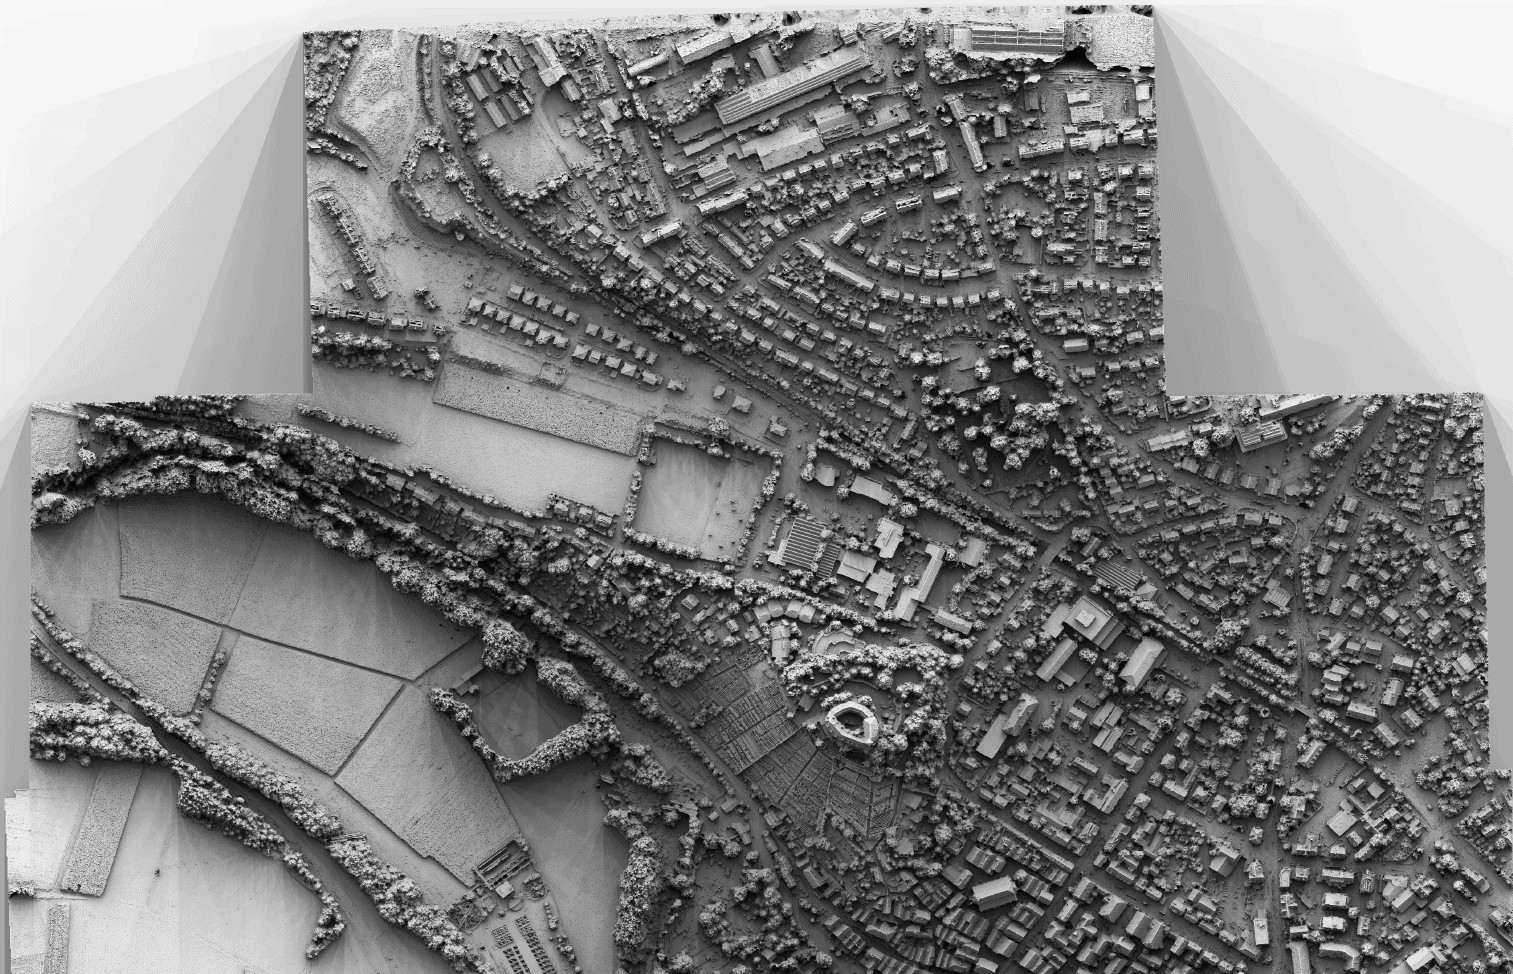
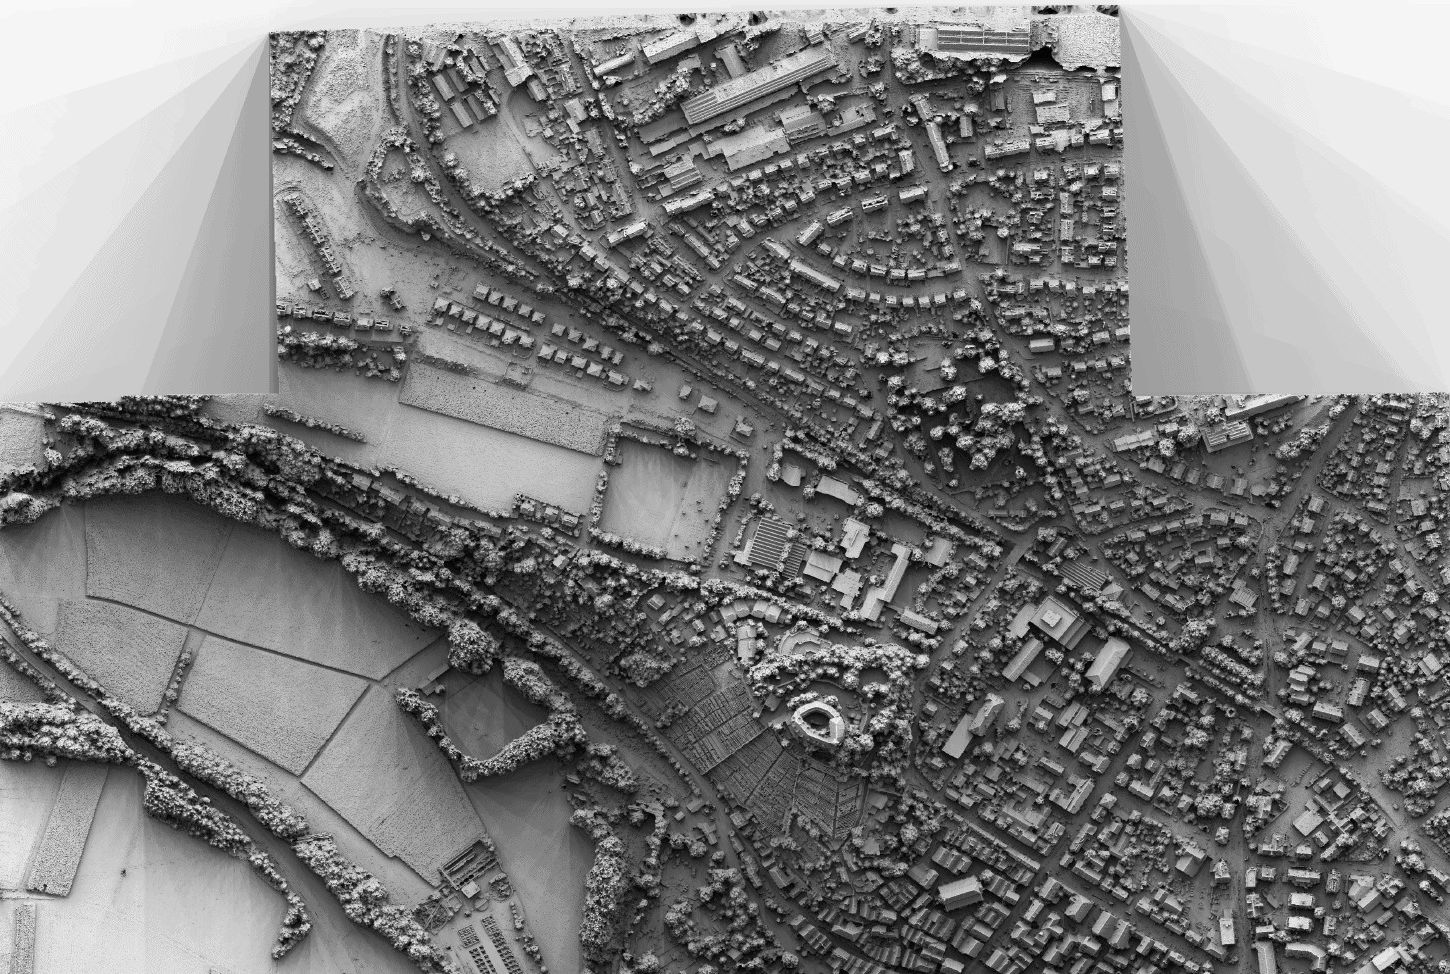
Doc

diff --git a/Documentation/Generalites/Intro.tex b/Documentation/Generalites/Intro.tex
@@ -26,7 +26,7 @@ MicMac is a tool for image matching. I began to write it in $2005$, while workin
 French National Geographic Institute (IGN), as
 a tool integrating several recent results of the scientific community.
 It is a general purpose tool, probably in many (if not all) specific
-contexts, one will be able to find a more acurate tool. However, one
+contexts, one will be able to find a more accurate tool. However, one
 of its expected advantages is its generality. It has been used
 in a lot of different contexts, for example:
 
@@ -65,7 +65,7 @@ MicMac:
 
 Since $2008$, several tools were added to solve specific requirements: tools for ortho-photo, tools
 for demosaicing\dots \  Since $2007$,  MicMac is an open source software, under the CeCILL-B license
-(an adaptation to the French law of the L-GPL license); as far as I unterstand law (not very much) all
+(an adaptation to the French law of the L-GPL license); as far as I understand law (not very much) all
 the other tools described in this document are extensions and evolutions of MicMac and obey to
 the same license.
 
@@ -75,8 +75,7 @@ Different people have helped me in writting these tools:
    \item Gregoire Maillet for supporting satellite orientation models (grid of rpc),
    \item Arnaud Le Bris for adaptation of \SiftPP supporting large images,
    \item Didier Boldo for the first Windows adaptation,
-   \item Isabelle Clery, Aymeric Godet and Livio de Luca for  developping two different user friendly interfaces and
-         also making many tests,
+   \item Isabelle Clery, Aymeric Godet and Livio de Luca for  developing two different user friendly interfaces and also making many tests,
    \item Christophe Meynard for solving some tricky Linux problems,
    \item Christian Thom for the first idea of multi-correlation,
    \item Jean-Micha\"el Muller for improvements about installation,
@@ -135,7 +134,7 @@ low level tools, and the installation, computation and running of these
 tools require some basic background in practical computer science.
 
 See now the section~\ref{MERCURIAL} for the new website since $2012$, install mercurial and follow the instruction.
-Several links that may be usefull :
+Several links that may be useful :
 
 \begin{itemize}
    \item http://logiciels.ign.fr/?Telechargement,20   for the sources
@@ -162,7 +161,7 @@ pwd = scAEf9MR
 
 \section{Librairies, Programs and Dependencies}
 
-These softwares have few dependencies to others librairies or programs. Basically,
+These softwares have few dependencies to others libraries or programs. Basically,
 if you use tiff or raw files as input, and if you do not use any of the graphical
 tools provided \footnote{for handling mask, visualize tie points ...} ,
 there might not be any dependency.
@@ -182,10 +181,10 @@ to have installed the command {\tt convert}, this command is a part of the excel
 
 
 The {\tt dcraw} source code I use to handle xif files info is sufficient in most cases.
-However, when it fails, I try to use the {\tt exiv2} tool. I also recommand that
+However, when it fails, I try to use the {\tt exiv2} tool. I also recommend that
 you install this excellent and free package.
 
-I also recommand that you install the excellent package {\tt exiftool}, it is a free
+I also recommend that you install the excellent package {\tt exiftool}, it is a free
 open source package and has the ability to read many {\tt xif} information (including
 GPS tags that will be soon usable in {\tt Apero}).
 
@@ -201,10 +200,10 @@ There are roughly three kinds of interfaces for softwares:
 \begin{itemize}
    \item user friendly graphical interface, with intuitive menu and window etc.
          Its advantage is that it may be usable by all final users,
-         the drawback of this solution being the cost for the developper;
+         the drawback of this solution being the cost for the developer;
 
    \item API or application programming interface. Using this level of interface requires you
-         to use one of the programming language the API is functionning with. One of
+         to use one of the programming language the API is functioning with. One of
          the drawbacks of these API is that they require a lot of documentation;
 
    \item a set of programs that you can call on a command line, with parameters being
@@ -212,11 +211,9 @@ There are roughly three kinds of interfaces for softwares:
 
 \end{itemize}
 
-The tools described here use the third kind of interface. This seemed to be the
+The tools described here use mainly the third kind of interface. This seemed to be the
 optimal solution as these tools have been primarily developed for my own usage and
-usage of colleagues from the same building.  Of course this choice is certainly
-not optimal for end users and one objective of this documentation is to  allow
-the development of an user friendly interface by people who would volunteer.
+usage of colleagues from the same building. Since this is not optimal for end users, some user friendly graphical interfaces have been added, to help to set parameters. 
 
 \subsection{Simple Tools}
 
@@ -271,6 +268,22 @@ line will contain {\tt Scale=2.5}.  Of course the command  {\tt bin/Tool -help} 
 essentially on the syntactic aspect, the semantic has to be found in this documentation
 (when the chapter exists \dots).
 
+\subsubsection{GUI for command line tools}
+
+For each command line tool, a graphical interface can be launched to help setting parameters. To run this interface, one should replace command name in command line by {\tt mm3d + "v" + command}. For example, to set parameters for command  {\tt GrShade}, one should call:
+
+\begin{verbatim}
+bin/mm3d vGrShade
+\end{verbatim}
+
+This will raise an interface where parameters can be set, and where all available options are shown:
+
+\begin{figure}[!h]
+\centering
+\includegraphics[width=87.31mm]{FIGS/Saisie/Visual.jpg}
+\caption{Visual interface for command line tools}
+\end{figure}
+
 \subsection{Complex Tools}
 
 For a more complex command, that requires arbitrary numbers of arguments, the command line
@@ -291,7 +304,7 @@ Here is an example for calling {\tt Apero}:
 bin/Apero ../micmac_data/Ref-Apero/Test-Lion/AperoQuick.xml
 \end{verbatim}
 
-If you downloaded the data example as decribed in~\ref{Install}, you could have
+If you downloaded the data example as described in~\ref{Install}, you could have
 a look at the {\tt AperoQuick.xml} file to see what it looks like. For all these
 complex tools, that exit in an  XML file, there is a formal description of the
 XML file that is correct from the syntactic point of view. These XML formal description
@@ -346,7 +359,7 @@ For example:
 \begin{itemize}
    \item  at  a given step, you want to orientate a certain subset of images of a
           project; so you need  to have the possibility to specify sets
-          and substets of files;
+          and subsets of files;
 
    \item  sometimes you will want to specify that if an image name is
           {\tt toto\_123.tif} or  {\tt toto\_0123.tif}  then the associated orientation is
@@ -440,7 +453,7 @@ exporting data at different steps of this pipeline:
 
    \item {\tt \bf ClipIm} for clipping image;
 
-   \item {\tt \bf ConvertIm} for some image convertion;
+   \item {\tt \bf ConvertIm} for some image conversion;
 
    \item {\tt \bf Dequant} for quantifying an image;
 

diff --git a/Documentation/Generalites/SomReal.tex b/Documentation/Generalites/SomReal.tex
@@ -33,8 +33,7 @@ there are also several documents more or less related to these tools :
                     focus on application to natural environments;
           \end{itemize}
 
-   \item  the directory {\tt Paper-UseCase/} contain papers from colleaques that describe some
-          experimentation with {\tt Apero/MicMac};
+   \item  the directory {\tt Paper-UseCase/} contains papers from colleagues that describe some experimentation with {\tt Apero/MicMac};
 
    \item  the directory {\tt Papers-Internship/} contains some report of internship done
           by student of our school and using {\tt Apero/MicMac};
@@ -118,7 +117,7 @@ See~\ref{View:Eleph}
    \multicolumn{2}{||c||}{ \includegraphics[width=150mm]{FIGS/SAMPLES/Doc-Pl-Eleph.jpg}} \\ \hline  \hline
    \multicolumn{2}{||c||}{ \includegraphics[width=150mm]{FIGS/SAMPLES/Doc-Eleph-3D.jpg}} \\ \hline  \hline
 \end{tabular}
-\caption{{\bf Statues:} elephant in Chian long temple, one of the 60 image, a shaded mode, a global view of the 60 image,
+\caption{{\bf Statues:} elephant in Chian long temple, one of the 60 images, a shaded mode, a global view of the 60 image,
 the $3$D model and the camera position}
 \label{View:Eleph}
 \end{figure}
@@ -133,16 +132,15 @@ the $3$D model and the camera position}
   \\ \hline  \hline
 \end{tabular}
 \caption{{\bf Statues:} Zhenjue temple}
-\label{View:Eleph}
+\label{View:Zhenjue}
 \end{figure}
-
 
 
 
 \begin{figure}
 \includegraphics[width=70mm]{FIGS/SAMPLES/Aj2.jpg}
 \includegraphics[width=100mm]{FIGS/SAMPLES/Aj1.jpg}
-\caption{{\bf Indoor architecture: } Chapelle imperiale Ajacio, with 100 fish-eye images;
+\caption{{\bf Indoor architecture: } Chapelle imperiale Ajaccio, with 100 fish-eye images;
 left position of camera, right 3D model}
 \end{figure}
 
@@ -157,9 +155,10 @@ view of the 3D model of the wall and a global view of orthophoto}
 \end{figure}
 
 \begin{figure}
-\includegraphics[width=70mm]{FIGS/SAMPLES/Pompei-Shade1.jpg}
-\includegraphics[width=70mm]{FIGS/SAMPLES/Pompei-Ortho2.jpg}
-\caption{Detail on 3D model and otho photo in Pompei}
+\centering
+\includegraphics[width=160mm]{FIGS/SAMPLES/Pompei-Shade1.jpg}
+\includegraphics[width=160mm]{FIGS/SAMPLES/Pompei-Ortho2.jpg}
+\caption{Detail on 3D model and ortho photo in Pompei}
 \end{figure}
 
 
@@ -173,9 +172,9 @@ view of the 3D model of the wall and a global view of orthophoto}
 
 
 \begin{figure}
-\includegraphics[width=90mm]{FIGS/SAMPLES/Louvre-Superp.jpg}
-\includegraphics[width=90mm]{FIGS/SAMPLES/FresqVilAv.jpg}
-\caption{{\bf Painting and Fresco: } CFine depth maps computation on painting and fresco,
+\includegraphics[width=84mm]{FIGS/SAMPLES/Louvre-Superp.jpg}
+\includegraphics[width=75mm]{FIGS/SAMPLES/FresqVilAv.jpg}
+\caption{{\bf Painting and Fresco: } Fine depth maps computation on painting and fresco,
 images and in superposition level curves and hypsometry;
 left image  , photo C2RMF/Jean Marsac; right fresque in Villeneuve
 les Avignon, photo CICRP/Odile Guillon}
@@ -193,18 +192,18 @@ les Avignon, photo CICRP/Odile Guillon}
    \multicolumn{4}{|c|}{\vspace{2mm} \includegraphics[width=160mm]{FIGS/SAMPLES/FriseDepthBits.jpg}} \\ \hline  \hline
    \multicolumn{4}{|c|}{\vspace{2mm} \includegraphics[width=160mm]{FIGS/SAMPLES/FrisScaledShade.jpg}} \\ \hline  \hline
 \end{tabular}
-\caption{{\bf Bas Relief} Frise in Villeneuves lez maguellone \dots}
+\caption{{\bf Bas Relief} Frise in Villeneuve-lès-Maguelone \dots}
 \end{figure}
 
 
 \begin{figure}
 \begin{tabular}{||c|c|c||}
    \hline \hline 
-   \includegraphics[width=60mm]{FIGS/SAMPLES/Hiero1_2908.JPG} &
-   \includegraphics[width=60mm]{FIGS/SAMPLES/Hiero2_2908.JPG} &
-   \includegraphics[width=60mm]{FIGS/SAMPLES/Hiero3_2908.JPG} \\ \hline  \hline 
+   \includegraphics[width=52mm]{FIGS/SAMPLES/Hiero1_2908.JPG} &
+   \includegraphics[width=52mm]{FIGS/SAMPLES/Hiero2_2908.JPG} &
+   \includegraphics[width=52mm]{FIGS/SAMPLES/Hiero3_2908.JPG} \\ \hline  \hline 
 \end{tabular}
-\caption{{\bf Bas Relief} Stele in Louvre , image and 3D model rendered in shading and depth map \dots}
+\caption{{\bf Bas Relief} Stele in Louvre, image and 3D model rendered in shading and depth map \dots}
 \end{figure}
 
 
@@ -215,15 +214,15 @@ les Avignon, photo CICRP/Odile Guillon}
    \includegraphics[width=80mm]{FIGS/SAMPLES/ROUFF-IM.JPG}&
    \includegraphics[width=80mm]{FIGS/SAMPLES/ROUFF-SHADE.jpg} \\ \hline  \hline 
 \end{tabular}
-\caption{{\tt Macro photography} in rouffignac cave, at $\frac{1}{20}$ mm resolution : image and shading of 3D model \dots}
+\caption{{\tt Macro photography} in Rouffignac cave, at $\frac{1}{20}$ mm resolution: image and 3D model shading}
 \end{figure}
 
 
 \begin{figure}
 \begin{tabular}{||c|c||}
    \hline \hline 
-   \includegraphics[width=80mm]{FIGS/SAMPLES/Doc-Pijo1.jpg}&
-   \includegraphics[width=80mm]{FIGS/SAMPLES/Doc-Pijo2.jpg} \\ \hline  \hline 
+   \includegraphics[width=72mm]{FIGS/SAMPLES/Doc-Pijo1.jpg}&
+   \includegraphics[width=75mm]{FIGS/SAMPLES/Doc-Pijo2.jpg} \\ \hline  \hline 
     \multicolumn{2}{|c|}{\includegraphics[width=150mm]{FIGS/SAMPLES/Doc-Pijo3.jpg}}  \\ \hline  \hline
 \end{tabular}
 \caption{{\tt Macro photography} plaquette of cave Mayenne science \dots}
@@ -240,14 +239,14 @@ les Avignon, photo CICRP/Odile Guillon}
 
 
 \begin{figure}
-\includegraphics[width=90mm]{FIGS/SAMPLES/DGPF_8Bits.jpg}
-\includegraphics[width=90mm]{FIGS/SAMPLES/DGF-SHADE.jpg}
+\includegraphics[width=80mm]{FIGS/SAMPLES/DGPF_8Bits.jpg}
+\includegraphics[width=80mm]{FIGS/SAMPLES/DGF-SHADE.jpg}
 \caption{Digital elevation model on semi urban area, 8cm resolution, DGPF data set, for
 Euro-SDR benchmarking on image matching}
 \end{figure}
 
 \begin{figure}
-\includegraphics[width=180 mm]{FIGS/SAMPLES/DGPF-GLOB.jpg}
+\includegraphics[width=160 mm]{FIGS/SAMPLES/DGPF-GLOB.jpg}
 \caption{A more global view of DEM on DGPF data set}
 \end{figure}
 
@@ -255,12 +254,14 @@ Euro-SDR benchmarking on image matching}
 
 
 \begin{figure}
-\includegraphics[width=90 mm]{FIGS/SAMPLES/SlsMNE_1_25.jpg}
-\includegraphics[width=90 mm]{FIGS/SAMPLES/Salse2.jpg}
-\includegraphics[width=90 mm]{FIGS/SAMPLES/Ortho-Test-Redr.jpg}
+\begin{tabular}{||c|c||}
+\hline \hline 
+\includegraphics[width=80 mm]{FIGS/SAMPLES/Salse2.jpg}&
+\includegraphics[width=80 mm]{FIGS/SAMPLES/Ortho-Test-Redr.jpg} \\ \hline  \hline 
+\\ \multicolumn{2}{|c|}{\includegraphics[width=160 mm]{FIGS/SAMPLES/SlsMNE_1_25.jpg}} \\ \hline  \hline
+ \end{tabular}
 \caption{Forteresse de Salses, photo acquired by drone survey, in collaboration
-with Map-CNRS; oblique view of 3D model, hypsometry and shading, ortho photography
-Euro-SDR benchmarking on image matching}
+with Map-CNRS; hypsometry and shading, ortho photography, oblique view of 3D model, Euro-SDR benchmarking on image matching}
 \end{figure}
 
 

diff --git a/Documentation/DocMicMac.tex b/Documentation/DocMicMac.tex
@@ -234,7 +234,7 @@ ValSpecNotImage
 %---------------------------------------------
 \chapter{Cas d'utilisation}
 
-Cette section pr\'entera et commentera des param\'etrages types
+Cette section pr\'esentera et commentera des param\'etrages types
 adapt\'es aux configurations les plus courantes d'utilisation de
 MICMAC.
 
